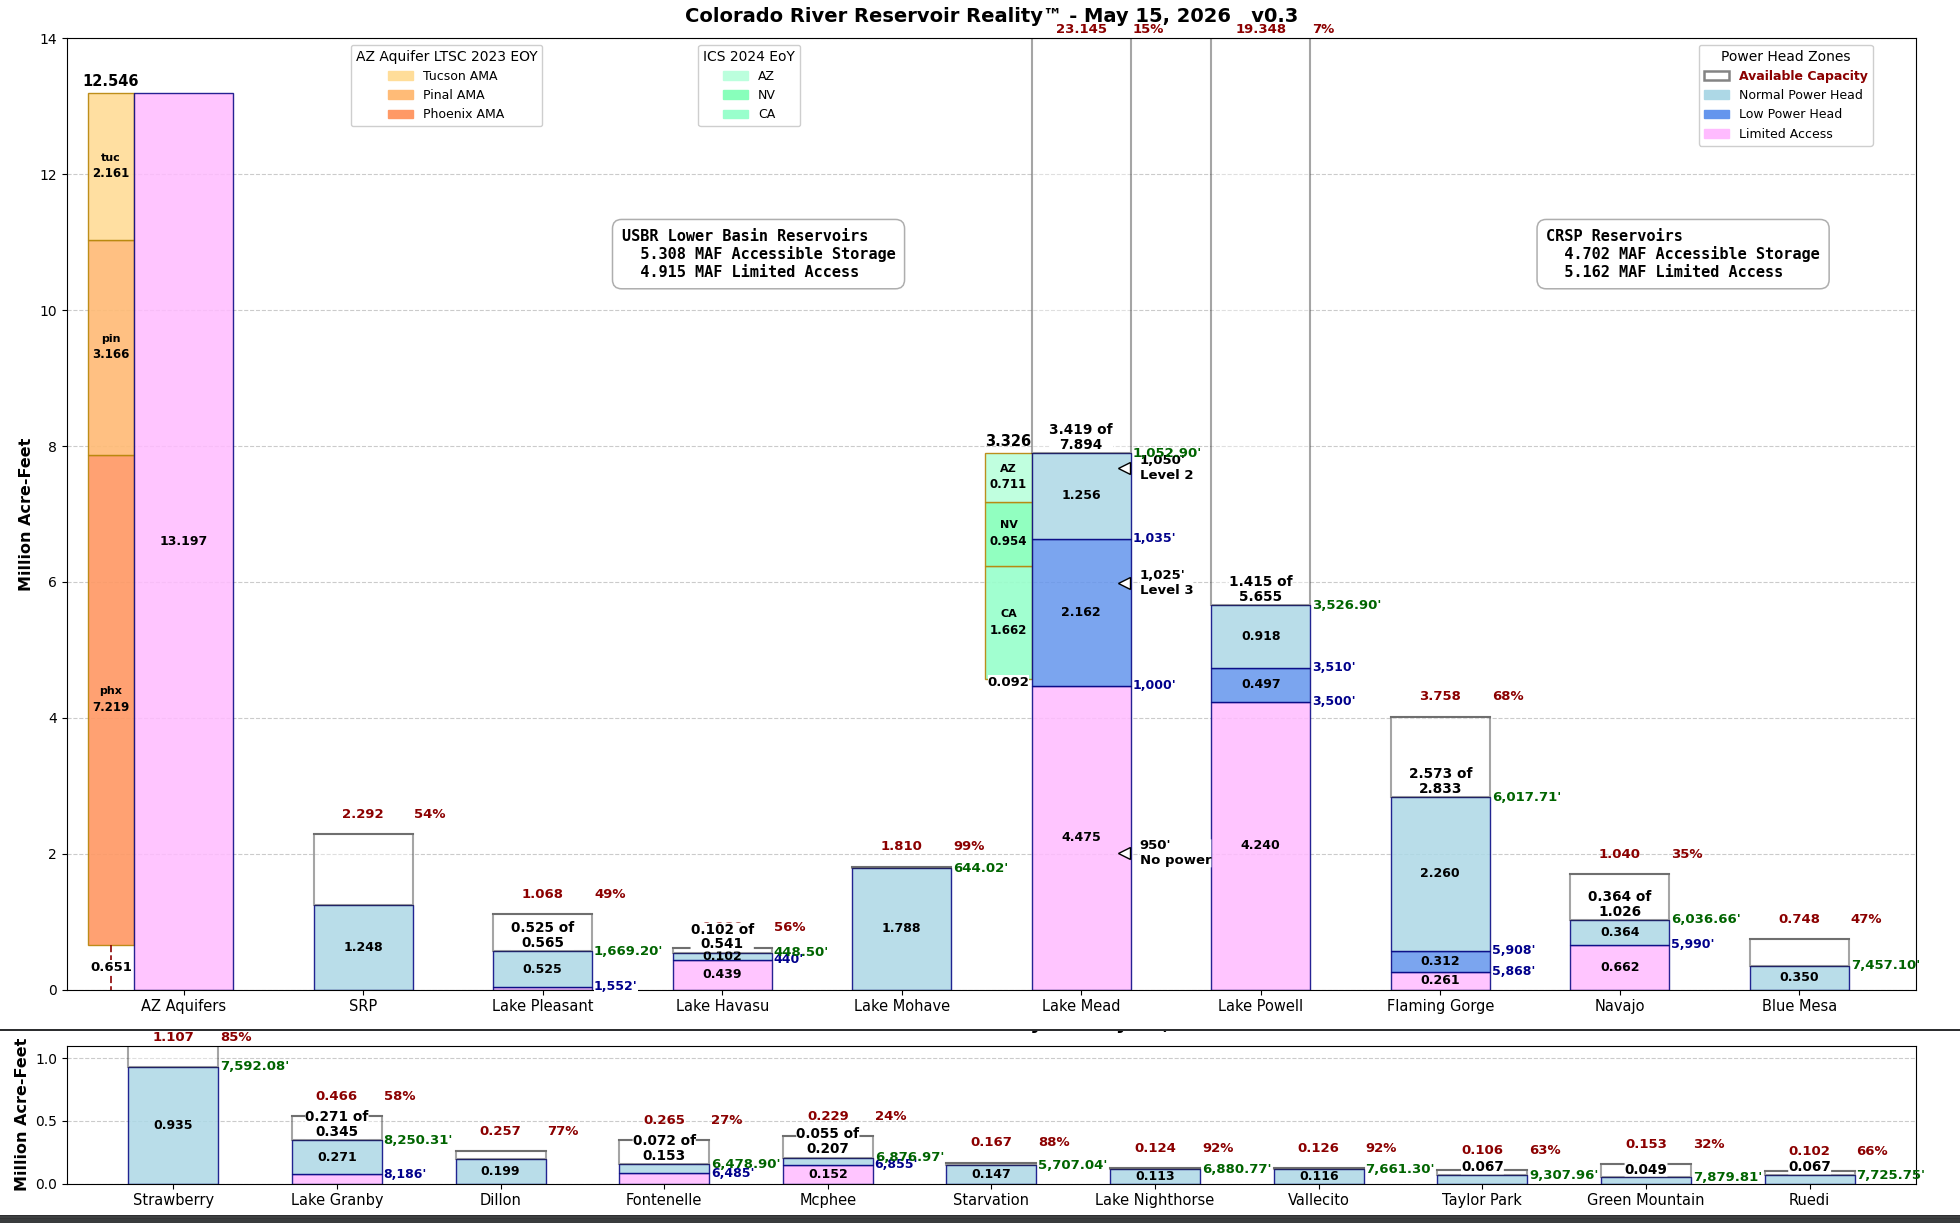
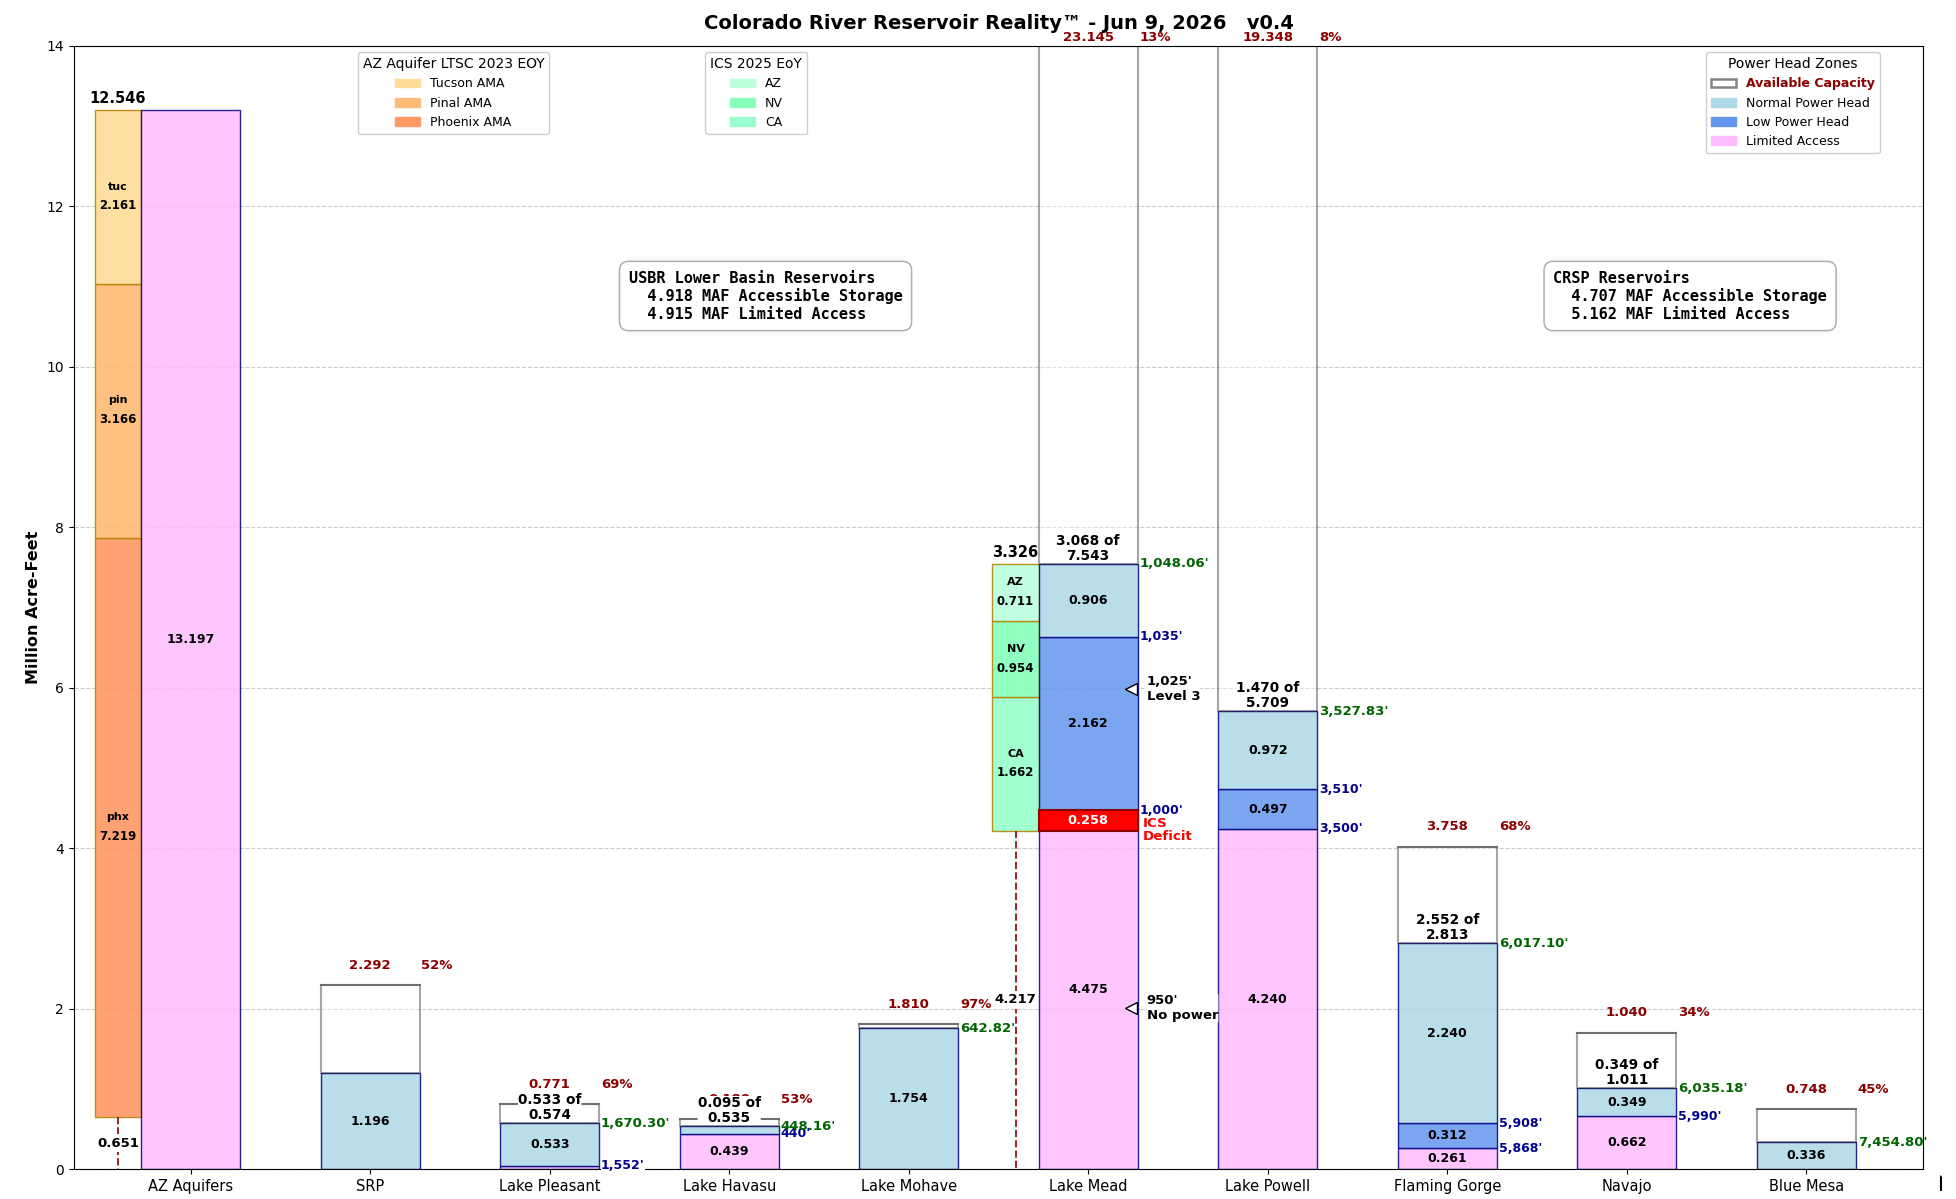
Fixes for last reservoir reality update a week ago

diff --git a/graphs/graph_reservoirs.py b/graphs/graph_reservoirs.py
@@ -111,84 +111,102 @@ class ReservoirChart(BarChart):
         # ==================== RESERVED BARS ====================
         for i, r in enumerate(reservoirs):
             reserved_parts = getattr(r, 'reserved_parts', [])
-            if reserved_parts:
-                total_reserved_af = sum(amount for _, amount, _ in reserved_parts)
-                total_reserved_maf = total_reserved_af / 1_000_000
-                main_bar_maf = current_maf[i]
-                reserved_bottom = main_bar_maf - total_reserved_maf
+            if not reserved_parts:
+                continue
 
-                current_bottom = reserved_bottom
-                for owner, amount, color in reserved_parts:
-                    if amount > 0:
-                        amount_maf = amount / 1_000_000
-                        reserved_x = x_pos[i] - (main_width / 2) - (reserved_width / 2)
-                        bar = ax.bar(reserved_x, amount_maf, width=reserved_width,
-                                     bottom=current_bottom, color=color, alpha=0.92,
-                                     edgecolor='darkgoldenrod')[0]
+            total_reserved_af = sum(amount for _, amount, _ in reserved_parts)
+            total_reserved_maf = total_reserved_af / 1_000_000
+            main_bar_maf = current_maf[i]
+            reserved_bottom = main_bar_maf - total_reserved_maf
 
-                        if amount_maf >= 0.45:
-                            ax.annotate(owner[:8],
-                                        xy=(bar.get_x() + bar.get_width() / 2, current_bottom + amount_maf / 2 + 0.13),
-                                        ha='center', va='center', fontsize=8, fontweight='bold', color='black')
-                        ax.annotate(f'{amount_maf:.3f}',
-                                    xy=(bar.get_x() + bar.get_width() / 2, current_bottom + amount_maf / 2 - 0.11),
-                                    ha='center', va='center', fontsize=8.5, fontweight='bold', color='black')
-                        current_bottom += amount_maf
-
-                # === Find nearest critical elevation below the reserved zone ===
-                dash_to_y = 0.0
-                crit_points = getattr(r, 'critical_elevations_feet', [])
-
-                if crit_points:
-                    for item in crit_points:
-                        if isinstance(item, (list, tuple)) and len(item) >= 3:
-                            cap_maf = item[2] / 1_000_000
-                            if reserved_bottom >= cap_maf > dash_to_y:
-                                dash_to_y = cap_maf
-
-                # === Dashed vertical line + annotation ===
-                if total_reserved_maf > 0:
+            # ==================== RESERVED STACKED BARS (original) ====================
+            current_bottom = reserved_bottom
+            for owner, amount, color in reserved_parts:
+                if amount > 0:
+                    amount_maf = amount / 1_000_000
                     reserved_x = x_pos[i] - (main_width / 2) - (reserved_width / 2)
+                    bar = ax.bar(reserved_x, amount_maf, width=reserved_width,
+                                 bottom=current_bottom, color=color, alpha=0.92,
+                                 edgecolor='darkgoldenrod')[0]
 
-                    # Dashed line from bottom of reserved to nearest critical (or 0)
-                    ax.plot([reserved_x, reserved_x],
-                            [reserved_bottom, dash_to_y],
-                            color='darkred',
-                            linestyle='--',
-                            linewidth=1.4,
-                            alpha=0.85,
-                            zorder=5)
+                    if amount_maf >= 0.45:
+                        ax.annotate(owner[:8],
+                                    xy=(bar.get_x() + bar.get_width() / 2, current_bottom + amount_maf / 2 + 0.13),
+                                    ha='center', va='center', fontsize=8, fontweight='bold', color='black')
+                    ax.annotate(f'{amount_maf:.3f}',
+                                xy=(bar.get_x() + bar.get_width() / 2, current_bottom + amount_maf / 2 - 0.11),
+                                ha='center', va='center', fontsize=8.5, fontweight='bold', color='black')
+                    current_bottom += amount_maf
 
-                    mid_y = (reserved_bottom + dash_to_y) / 2
+            # ==================== ORIGINAL DASHED LINE + ANNOTATION ====================
+            dash_to_y = 0.0
+            crit_points = getattr(r, 'critical_elevations_feet', [])
 
-                    # Value to display = reserved water sitting above the critical elevation
-                    displayed_value = reserved_bottom - dash_to_y
+            if crit_points:
+                for item in crit_points:
+                    if isinstance(item, (list, tuple)) and len(item) >= 3:
+                        cap_maf = item[2] / 1_000_000
+                        if reserved_bottom >= cap_maf > dash_to_y:
+                            dash_to_y = cap_maf
 
-                    # White background
-                    ax.add_patch(mpatches.Rectangle(
-                        (reserved_x - 0.115, mid_y - 0.115),
-                        0.23, 0.23,
-                        facecolor='white',
-                        edgecolor='none',
-                        zorder=6
-                    ))
+            if total_reserved_maf > 0:
+                reserved_x = x_pos[i] - (main_width / 2) - (reserved_width / 2)
 
-                    # Annotation showing reserved amount above the critical elevation
-                    ax.annotate(
-                        f'{displayed_value:.3f}',
-                        xy=(reserved_x, mid_y),
-                        ha='center', va='center',
-                        fontsize=9.5,
-                        fontweight='bold',
-                        color='black',
-                        zorder=7
-                    )
+                ax.plot([reserved_x, reserved_x],
+                        [reserved_bottom, dash_to_y],
+                        color='darkred', linestyle='--', linewidth=1.4, alpha=0.85, zorder=5)
 
-                # Original total reserved annotation at top (unchanged)
+                mid_y = (reserved_bottom + dash_to_y) / 2
+                displayed_value = reserved_bottom - dash_to_y
+
+                ax.add_patch(mpatches.Rectangle(
+                    (reserved_x - 0.115, mid_y - 0.115),
+                    0.23, 0.23,
+                    facecolor='white', edgecolor='none', zorder=6
+                ))
+
+                ax.annotate(
+                    f'{displayed_value:.3f}',
+                    xy=(reserved_x, mid_y),
+                    ha='center', va='center',
+                    fontsize=9.5, fontweight='bold', color='black', zorder=7
+                )
+
                 ax.annotate(f'{total_reserved_maf:.3f}',
                             xy=(x_pos[i] - (main_width/2) - (reserved_width/2), main_bar_maf),
                             xytext=(0, 3), textcoords="offset points",
                             ha='center', va='bottom', fontsize=10.5, fontweight='bold', color='black')
+
+            # ==================== FULL-WIDTH SOLID RED BAR + LABEL ====================
+            lowest_critical_maf = 0.0
+            for item in crit_points:
+                if isinstance(item, (list, tuple)) and len(item) >= 3:
+                    cap_maf = item[2] / 1_000_000
+                    if cap_maf > 0 and (lowest_critical_maf == 0 or cap_maf < lowest_critical_maf):
+                        lowest_critical_maf = cap_maf
+
+            in_the_red_maf = max(0.0, lowest_critical_maf - reserved_bottom)
+
+            if in_the_red_maf > 0.001:
+                red_bottom = lowest_critical_maf - in_the_red_maf
+
+                # Full-width solid red bar
+                ax.bar(x_pos[i], in_the_red_maf, width=main_width,
+                       bottom=red_bottom,
+                       color='red', alpha=1.0, edgecolor='darkred', linewidth=1.5, zorder=10)
+
+                # Numeric value inside red bar
+                ax.annotate(f'{in_the_red_maf:.3f}',
+                            xy=(x_pos[i], red_bottom + in_the_red_maf / 2),
+                            ha='center', va='center',
+                            fontsize=9.4, fontweight='bold', color='white', zorder=11)
+
+                # === TWO-LINE "ICS Deficit" moved down slightly ===
+                ax.annotate('ICS\nDeficit',
+                            xy=(x_pos[i] + main_width * 0.55, red_bottom + in_the_red_maf / 2 - 0.12),
+                            ha='left', va='center',
+                            fontsize=9.6, fontweight='bold', color='red',
+                            linespacing=0.95, zorder=12)
 
         # ==================== MAIN STACKED BARS ====================
         for i, r in enumerate(reservoirs):
@@ -455,7 +473,7 @@ class ReservoirChart(BarChart):
 
         if self.reserved_zones:
             ics_patches = [mpatches.Patch(color=c, label=l) for c, l in self.reserved_zones]
-            leg = ax.legend(handles=ics_patches, title="ICS 2024 EoY",
+            leg = ax.legend(handles=ics_patches, title="ICS 2025 EoY",
                             loc='upper right', bbox_to_anchor=(0.4, 1.0),
                             fontsize=9, title_fontsize=10, framealpha=0.95)
             ax.add_artist(leg)

diff --git a/graphs/reservoirs_big3.py b/graphs/reservoirs_big3.py
@@ -33,6 +33,8 @@ import colorado.ub as ub
 from reservoirs.lake_mead import LakeMead
 from reservoirs.lake_powell import LakePowell
 from reservoirs.flaming_gorge import FlamingGorge
+from source.crbfc import request_esplist, request_forecast
+from typing import Dict
 
 arrow_fg = wx.Colour(150, 150, 150)
 
@@ -180,7 +182,7 @@ class ReservoirsBig3(ChartFrame):
                         df_utils.add_cumulative_daily_delta(powell_df, 'Cut Powell Release', start_mod_date, end_powell_mod_date, 1_480_000)
                         reservoir.df_daily[ub.POWELL_MOST] = reservoir.df_daily[ub.POWELL_MOST] + powell_df['Cut Powell Release']
                         reservoir.df_daily[ub.POWELL_MOST] = reservoir.df_daily[ub.POWELL_MOST] + fg_df['Flaming Gorge DROA']
-                    time_series.append((reservoir.df_daily, ub.POWELL_MOST, '#a0a0ff'))
+                    time_series.append((reservoir.df_daily, ub.POWELL_MOST, '#a0a0ff', 'solid'))
                     time_series.append((reservoir.df_daily, ub.POWELL_ABOVE_3500, 'dodgerblue'))
                     prev_path = previous_month_path(Path(reservoir.report_path))
                     df_24_month_prev, df_24_wy_prev = reservoir.load_24_month(prev_path, reservoir.name)
@@ -189,16 +191,23 @@ class ReservoirsBig3(ChartFrame):
                 elif reservoir.name == 'Lake Mead':
                     if do_adjustment:
                         reservoir.df_daily[lb.MEAD_MOST] = reservoir.df_daily[lb.MEAD_MOST] - powell_df['Cut Powell Release']
-                    time_series.append((reservoir.df_daily, lb.MEAD_MOST, '#ffa0a0'))
+                    time_series.append((reservoir.df_daily, lb.MEAD_MOST, '#ffa0a0', 'solid'))
                     time_series.append((reservoir.df_daily, lb.MEAD_ABOVE_1000, 'darkred'))
                 elif reservoir.name == 'Flaming Gorge':
                     fg_df = reservoir.df_daily
                     if do_adjustment:
                         df_utils.add_cumulative_daily_delta(fg_df, 'Flaming Gorge DROA', start_mod_date, end_fg_mod_date, 1_000_000)
                         reservoir.df_daily[ub.FLAMING_GORGE_MOST] = reservoir.df_daily[ub.FLAMING_GORGE_MOST] - fg_df['Flaming Gorge DROA']
-                    time_series.append((reservoir.df_daily, ub.FLAMING_GORGE_MOST, '#50a050'))
+                    time_series.append((reservoir.df_daily, ub.FLAMING_GORGE_MOST, '#50a050', 'solid'))
                     time_series.append((reservoir.df_daily, ub.FLAMING_GORGE_ABOVE_5868, 'darkgreen'))
 
+        '''
+        esp: Dict[str, str] = request_esplist()
+        colorado_cisco_esp_id = esp.get('Colorado - Cisco  Nr', '')
+        df_colorado_cisco = None
+        if colorado_cisco_esp_id:
+            df_colorado_cisco = request_forecast(colorado_cisco_esp_id, 2026)
+        '''
         today = datetime.today().date()
         self.line_chart = LineChart(
             time_series,
@@ -215,10 +224,6 @@ class ReservoirsBig3(ChartFrame):
             for reservoir in reversed(reservoirs):
                 if reservoir.name == 'Lake Powell':
                     time_series.append((reservoir.df_daily, ub.POWELL_INFLOW_CFS, 'royalblue'))
-                    time_series.append((reservoir.df_daily, ub.POWELL_RELEASE_CFS, 'dodgerblue'))
-                elif reservoir.name == 'Lake Mead':
-                    time_series.append((reservoir.df_daily, lb.DIAMOND_CREEK, '#ffa0a0'))
-                    time_series.append((reservoir.df_daily, lb.MEAD_RELEASE_CFS, 'darkred'))
                 elif reservoir.name == 'Flaming Gorge':
                     time_series.append((reservoir.df_daily, ub.FLAMING_GORGE_INFLOW_CFS, 'darkgreen'))
                     time_series.append((reservoir.df_daily, ub.FLAMING_GORGE_RELEASE_CFS, '#50a050'))
@@ -229,11 +234,11 @@ class ReservoirsBig3(ChartFrame):
             start_date=self.start_nav.current_date, current_date=self.current_time_from_usbr, end_date=self.end_nav.current_date.month,
             show_x_labels = False,
             percentage=0.2,
-            # y_max=18000,
+            y_min=0,
             y_units='CFS',
         )
         self.inflow_outflow_chart.set_end_date(graph_end_date)
-        self.charts.append(self.inflow_outflow_chart)
+        # self.charts.append(self.inflow_outflow_chart)
 
         time_series = [
             (powell_df, 'Colorado River Near Cisco UT', 'royalblue'),
@@ -246,27 +251,47 @@ class ReservoirsBig3(ChartFrame):
             start_date=self.start_nav.current_date, current_date=self.current_time_from_usbr, end_date=self.end_nav.current_date,
             percentage=0.2,
             y_units='CFS',
-            y_max=11_000
+            y_max=10_500,
         )
         line_chart.set_end_date(graph_end_date)
         self.charts.append(line_chart)
 
-'''
-        time_series = []
-        for reservoir in self.reservoirs:
-            if reservoir.name == 'Lake Powell':
-                if reservoir.report_path is not None:
-                    #time_series.append((reservoir.df_daily, 'Diff', 'maroon'))
-                    pass
-        time_series.append((powell_df, 'Cut Powell Release', 'gold'))
-        time_series.append((fg_df, 'Flaming Gorge DROA', 'green'))
+        '''
+        time_series = [
+            (df_colorado_cisco, 'p50', 'royalblue', 'dotted'),
+        ]
         line_chart = LineChart(
             time_series, title='',
-            start_date=self.start_nav.current_date, current_date=self.current_time_from_usbr, end_date=self.end_nav.current_date
+            start_date=self.start_nav.current_date, current_date=self.current_time_from_usbr, end_date=self.end_nav.current_date,
+            percentage=0.2,
+            y_units='CFS',
         )
-        line_chart.set_end_date(date(2027, 5, 1))
+        line_chart.set_end_date(graph_end_date)
         self.charts.append(line_chart)
-'''
+        '''
+
+        time_series = []
+        for reservoirs in self.reservoir_lists:
+            for reservoir in reversed(reservoirs):
+                if reservoir.name == 'Lake Powell':
+                    time_series.append((reservoir.df_daily, ub.POWELL_INFLOW_CFS, 'royalblue'))
+                    time_series.append((reservoir.df_daily, ub.POWELL_RELEASE_CFS, 'dodgerblue'))
+                elif reservoir.name == 'Lake Mead':
+                    time_series.append((reservoir.df_daily, lb.DIAMOND_CREEK, '#ffa0a0'))
+                    time_series.append((reservoir.df_daily, lb.MEAD_RELEASE_CFS, 'darkred'))
+
+        self.inflow_outflow_chart = LineChart(
+            time_series,
+            title='',
+            start_date=self.start_nav.current_date, current_date=self.current_time_from_usbr, end_date=self.end_nav.current_date.month,
+            show_x_labels = False,
+            percentage=0.2,
+            y_min=1_000,
+            y_units='CFS',
+        )
+        self.inflow_outflow_chart.set_end_date(graph_end_date)
+        self.charts.append(self.inflow_outflow_chart)
+
 def previous_month_path(path: Path) -> Path:
     """
     Takes a path like: /.../2026/APR26

diff --git a/graphs/reservoirs_reality.py b/graphs/reservoirs_reality.py
@@ -134,7 +134,9 @@ class ReservoirsReality(ChartFrame):
             # big_sandy, crystal, grand_lake, lemon, shadow_mountain, heron, groundhog, gross, ridgeway,
             # wolford, paonia
         ]
-        reservoir_lists = [self.reservoirs, self.ub_reservoirs]
+        reservoir_lists = [self.reservoirs]
+        # reservoir_lists = [self.reservoirs, self.ub_reservoirs]
+
         super().__init__(notebook_frame, reservoir_lists=reservoir_lists, reports=reports, page_name=self.name)
 
 
@@ -173,7 +175,7 @@ class ReservoirsReality(ChartFrame):
             self.ub_reservoirs, start_date=start, current_date=self.current_time_from_usbr, end_date=end, y_max=1.1,
             percentage = 0.09
         )
-        self.charts.append(reservoir_chart)
+        # self.charts.append(reservoir_chart)
 
         # inflow_chart = InflowOutflowChart(
         #    self.reservoirs, start_date=start, current_date=current, end_date=end

diff --git a/reservoirs/lake_pleasant.py b/reservoirs/lake_pleasant.py
@@ -63,15 +63,23 @@ class LakePleasant(Reservoir):
 
         # Maximum conservation storage: ~812,100 acre-feet at elevation 1,702 feet (surface area ~9,970 acres).
         # This is the primary "full" operational target for conservation/storage purposes
-        self.full_feet =  1_725
-        self.full_af = 1_108_600
+        # Conservation pool
+        self.full_feet =  1_702
+        self.full_af = 812_000
+
+        # Flood pool
+        # self.full_feet =  1_725
+        # self.full_af = 1_108_600
 
         # Critical
         self.power_head_target_feet = 0
         self.power_head_target_af = 0
 
+        # Top of inactive conservation pool
         self.power_head_min_feet =  1_552
         self.power_head_min_af = 40_500
+
+        # Actual dead pool is 1506 ft,
 
         self.turbine_intake_feet = 0
         self.turbine_intake_af = 0
